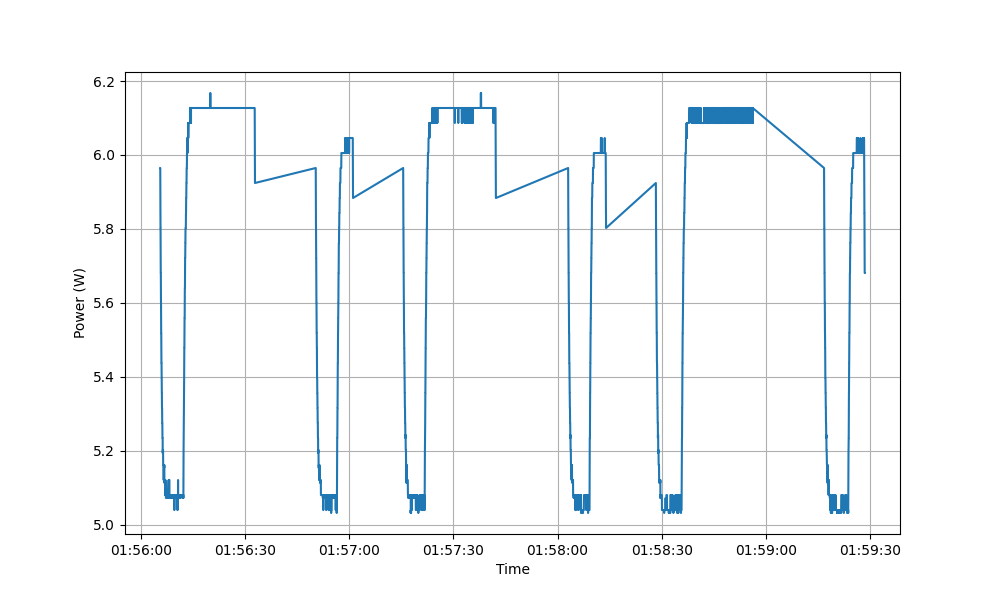
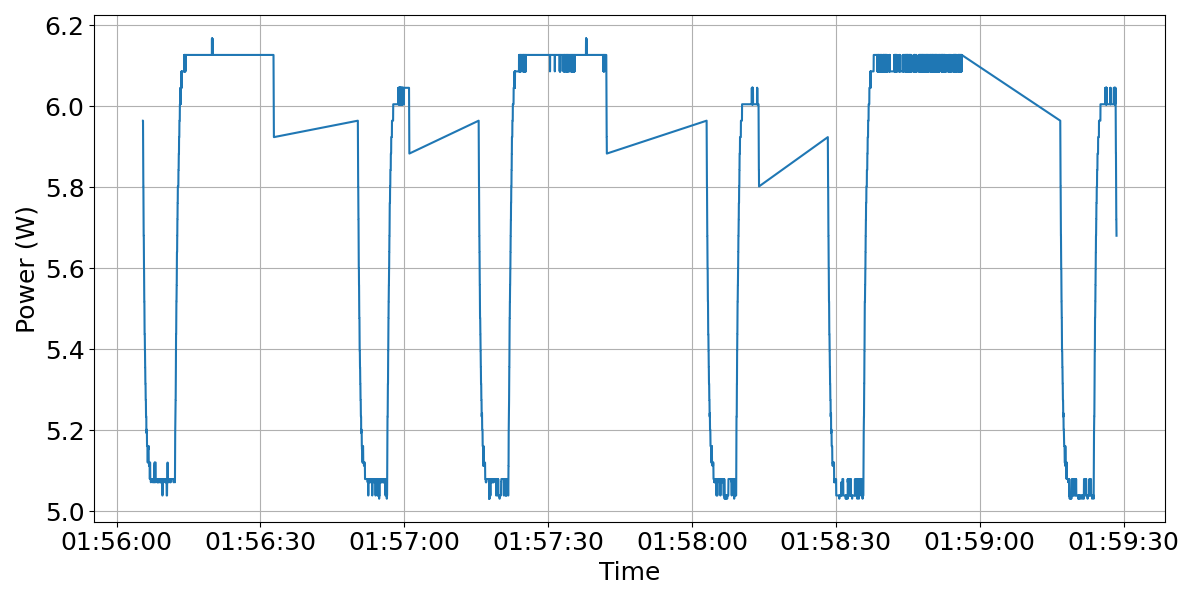
250328

diff --git a/eval/20250328/eval_250328.py b/eval/20250328/eval_250328.py
@@ -77,57 +77,37 @@ ts_net_rpi5, net_sent_rpi5, net_recv_rpi5 = load_net_data(fl_state_rpi5)
 # 시각화
 import matplotlib.dates as mdates
 # Plot for Jetson Power
-fig1, ax1 = plt.subplots(figsize=(10, 6))
+fig1, ax1 = plt.subplots(figsize=(12, 6))
 ax1.plot(ts_power_jetson, pw_jetson)
-#ax1.set_title("Jetson Power Consumption Over Time")
-ax1.set_xlabel("Time")
-ax1.set_ylabel("Power (W)")
+# ax1.set_title("Jetson Power Consumption Over Time", fontsize=18)
+ax1.set_xlabel("Time", fontsize=18)
+ax1.set_ylabel("Power (W)", fontsize=18)
+plt.xticks(fontsize=18)  # Increase xticks font size
+plt.yticks(fontsize=18)  # Increase yticks font size
 plt.grid(True)
-#ax1.legend()
+# ax1.legend(fontsize=18)
 ax1.xaxis.set_major_formatter(mdates.DateFormatter("%H:%M:%S"))
-#plt.show()
+# plt.show()
+plt.tight_layout()
 plt.savefig("fig_power_jetson.png")
 plt.close()
 
 # Plot for RPi5 Power
-fig2, ax2 = plt.subplots(figsize=(10, 6))
+fig2, ax2 = plt.subplots(figsize=(12, 6))
 ax2.plot(ts_power_rpi5, pw_rpi5)
-#ax2.set_title("RPi5 Power Consumption Over Time")
-ax2.set_xlabel("Time")
-ax2.set_ylabel("Power (W)")
+# ax2.set_title("RPi5 Power Consumption Over Time", fontsize=18)
+ax2.set_xlabel("Time", fontsize=18)
+ax2.set_ylabel("Power (W)", fontsize=18)
+plt.xticks(fontsize=18)  # Increase xticks font size
+plt.yticks(fontsize=18)  # Increase yticks font size
 plt.grid(True)
-#ax2.legend()
+# ax2.legend(fontsize=18)
 ax2.xaxis.set_major_formatter(mdates.DateFormatter("%H:%M:%S"))
-#plt.show()
+# plt.show()
+plt.tight_layout()
 plt.savefig("fig_power_rpi5.png")
 plt.close()
-'''
-# Plot for Jetson Network Usage
-fig3, ax3 = plt.subplots()
-ax3.plot(ts_net_jetson, net_sent_jetson, label="Sent")
-ax3.plot(ts_net_jetson, net_recv_jetson, label="Recv")
-#ax3.set_title("Jetson Network Usage Over Time")
-ax3.set_xlabel("Time")
-ax3.set_ylabel("Bytes")
-ax3.legend()
-ax3.xaxis.set_major_formatter(mdates.DateFormatter("%H:%M:%S"))
-#plt.show()
-plt.savefig("fig_jetson_network.png")
-plt.close()
 
-# Plot for RPi5 Network Usage
-fig4, ax4 = plt.subplots()
-ax4.plot(ts_net_rpi5, net_sent_rpi5, label="Sent")
-ax4.plot(ts_net_rpi5, net_recv_rpi5, label="Recv")
-#ax4.set_title("RPi5 Network Usage Over Time")
-ax4.set_xlabel("Time")
-ax4.set_ylabel("Bytes")
-ax4.legend()
-ax4.xaxis.set_major_formatter(mdates.DateFormatter("%H:%M:%S"))
-#plt.show()
-plt.savefig("fig_rpi5_network.png")
-plt.close()
-'''
 # Combined Plot for Jetson and RPi5 Network Usage
 fig, ax = plt.subplots(figsize=(12, 6))
 
@@ -140,19 +120,21 @@ ax.plot(ts_net_rpi5, net_sent_rpi5, label="RPi5 Sent", linestyle='-', marker='x'
 ax.plot(ts_net_rpi5, net_recv_rpi5, label="RPi5 Recv", linestyle='--', marker='x', color='green')
 
 # Title and Labels
-#ax.set_title("Network Usage Over Time")
-ax.set_xlabel("Time")
-ax.set_ylabel("Bytes")
+# ax.set_title("Network Usage Over Time", fontsize=18)
+ax.set_xlabel("Time", fontsize=18)
+ax.set_ylabel("Bytes", fontsize=18)
+plt.xticks(fontsize=18)  # Increase xticks font size
+plt.yticks(fontsize=18)  # Increase yticks font size
 
 # Adjust legend to be horizontal
-ax.legend(loc='upper center', bbox_to_anchor=(0.5, 1.1), ncol=4)
+ax.legend(loc='upper center', bbox_to_anchor=(0.5, 1.1), ncol=4, fontsize=18)
 plt.grid(True)
 
 # Format x-axis for time
 ax.xaxis.set_major_formatter(mdates.DateFormatter("%H:%M:%S"))
 
 # Save and close the plot
-#plt.show()
+plt.tight_layout()
 plt.savefig("fig_network_usage.png", bbox_inches="tight")
 plt.close()
 
